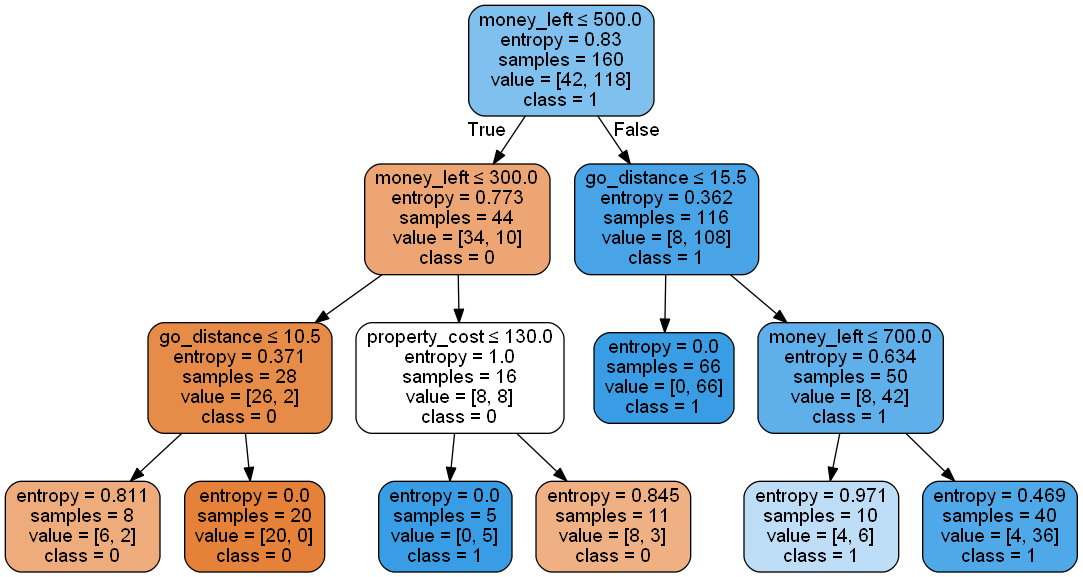
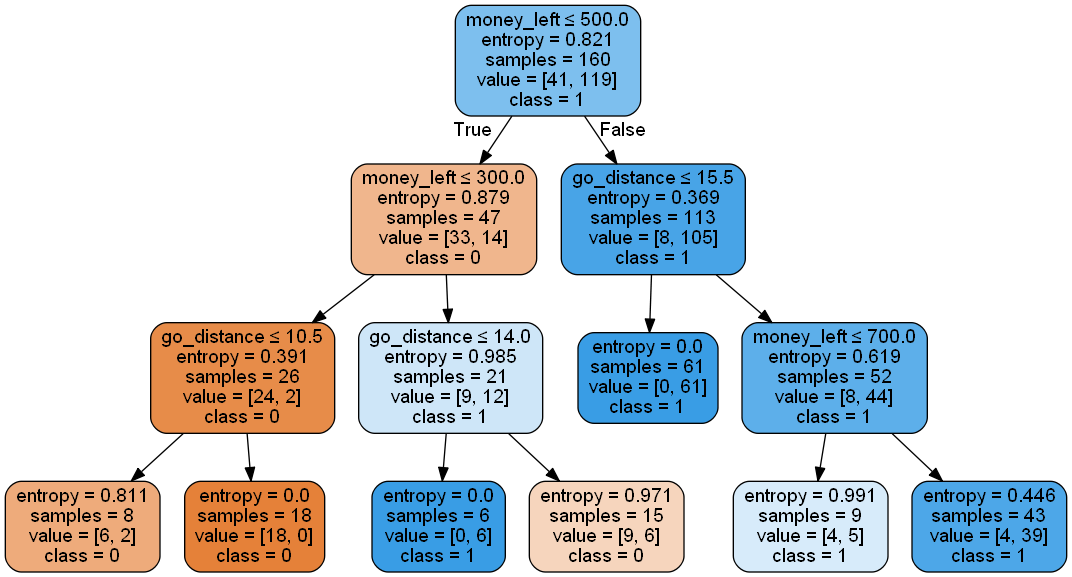
Major changes
More detailed comments and neater prediction and accuracy display. Model is also smarter.
Old model accuracy: 90%
New model accuracy: 97%

diff --git a/Automatic_Moneypoly_Organization_Network_Given_Under_Statistics/export_model.py b/Automatic_Moneypoly_Organization_Network_Given_Under_Statistics/export_model.py
@@ -36,14 +36,13 @@ class_feature_data = data.buy_property
 print(class_feature_data.head(class_feature_data.shape[0]))
 print()
 
-# Split the datasets into 80% train data and 20% test data.
+# Split the datasets into 80% train data and 20% test data randomly.
 (feature_train_data,
  feature_test_data,
  class_feature_train_data,
  class_feature_test_data) = train_test_split(feature_data,
                                              class_feature_data,
-                                             test_size = 0.2,
-                                             random_state = 1)
+                                             test_size = 0.2)
 # Display the contents and the amount of data of feature train data.
 print(feature_train_data.head(feature_train_data.shape[0]))
 print()
@@ -67,9 +66,9 @@ plot_tree(model)
 # Make the model predict the class feature values based on the feature test data.
 class_feature_predictions = model.predict(feature_test_data)
 # Display the class feature predictions of the model.
-print("Class feature predictions: ", class_feature_predictions)
+print("Class feature predictions:", class_feature_predictions)
 # Display the accuracy score to see how well the model can predict.
-print("Accuracy score: ", accuracy_score(class_feature_test_data, class_feature_predictions))
+print("Accuracy score:", accuracy_score(class_feature_test_data, class_feature_predictions))
 
 # Create a dot file in which the tree will be exported.
 dot_data = StringIO()
